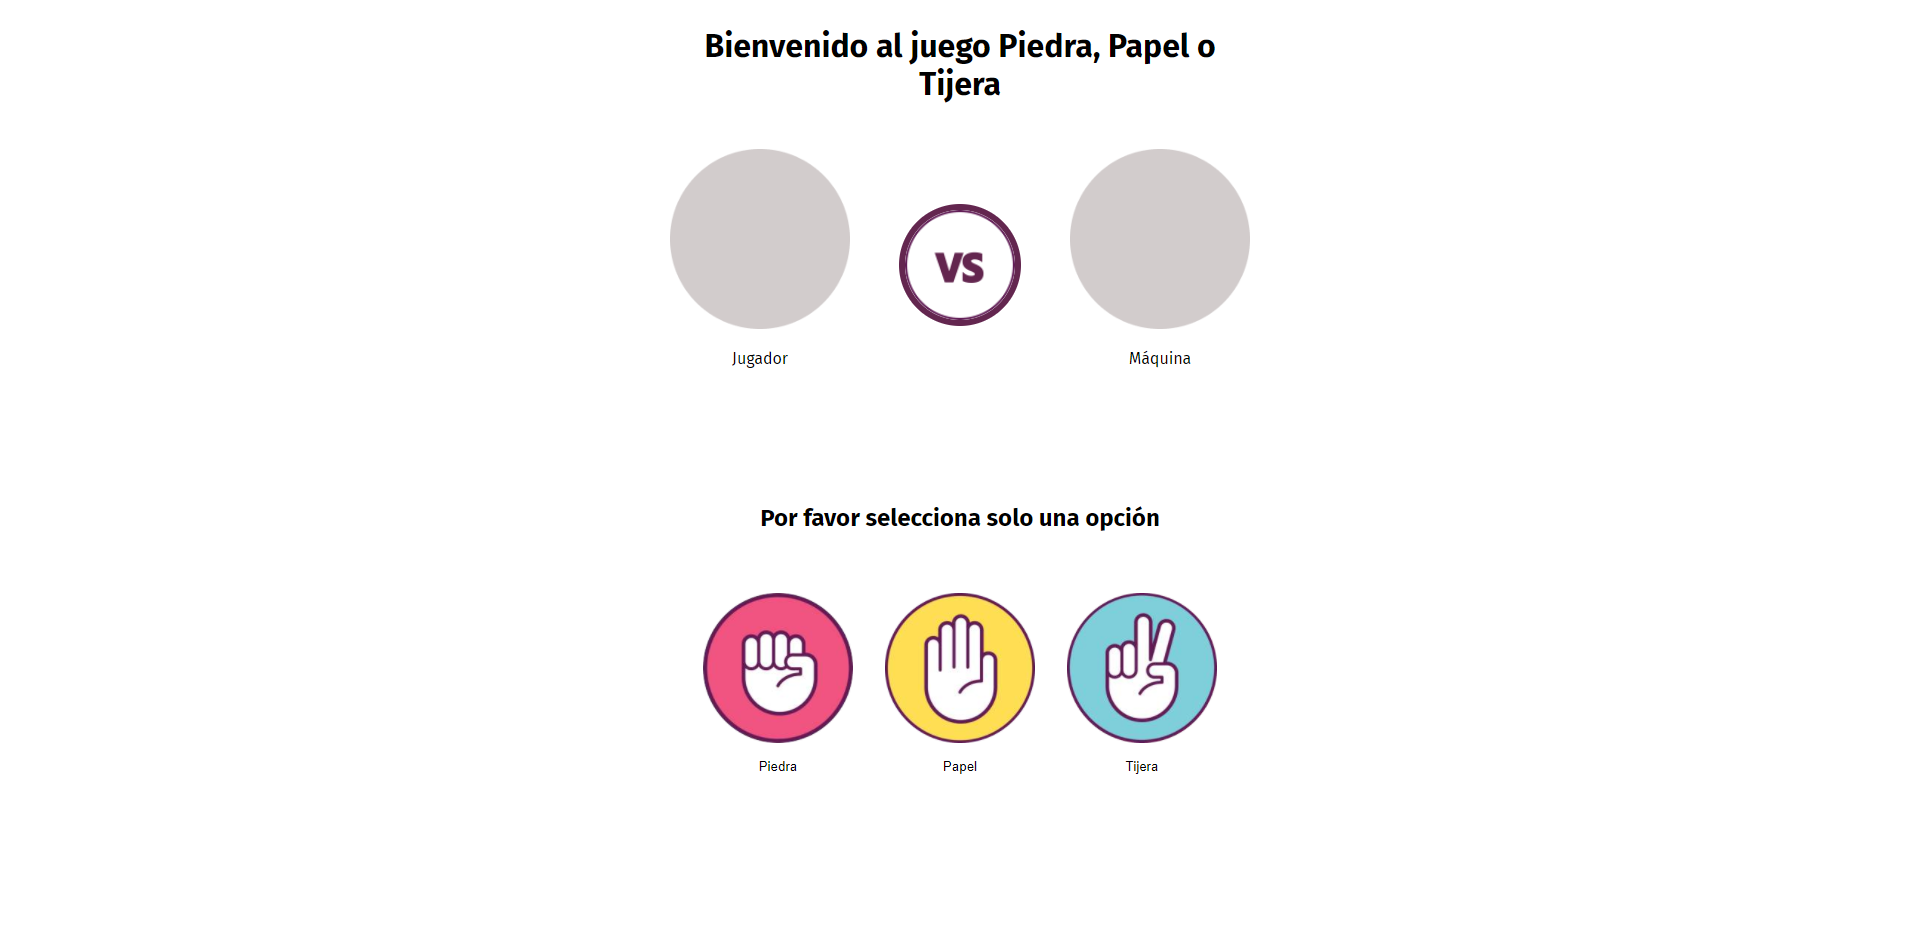
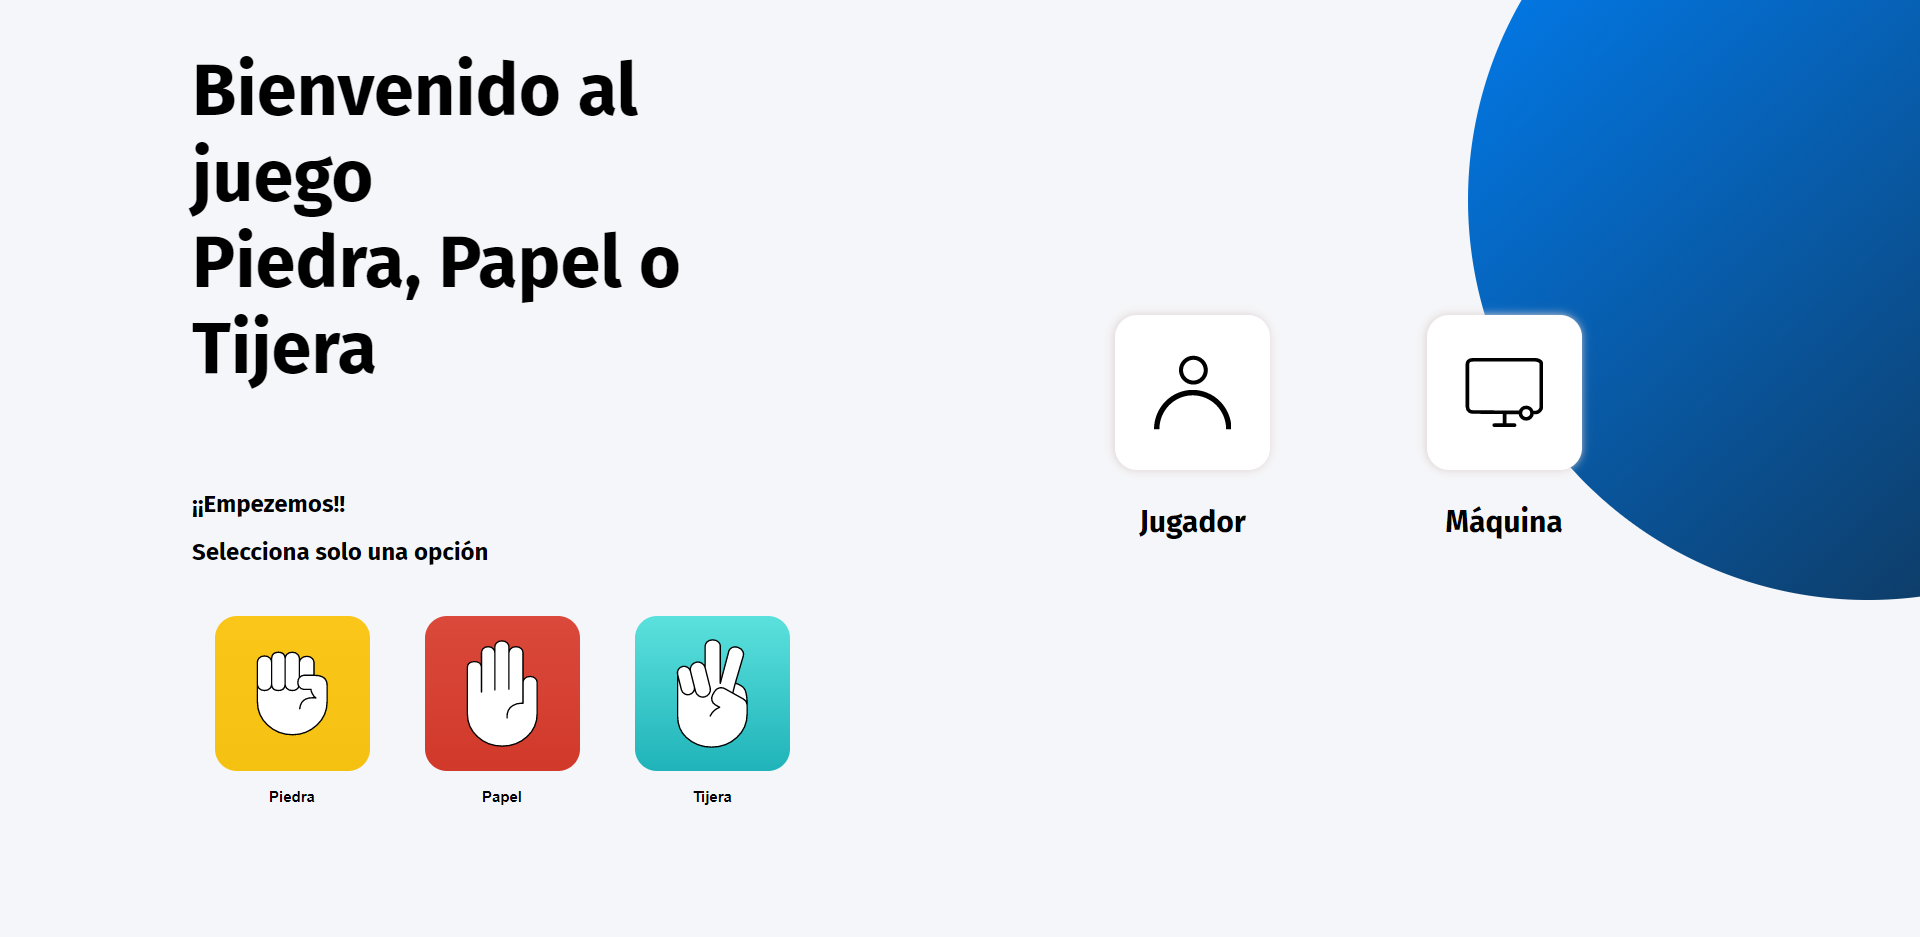
Rediseño de la App,fix html y CSS, fix Readme.md

diff --git a/css/maincss.css b/css/maincss.css
@@ -38,11 +38,18 @@ body {
     font-weight: bold;
 }
 
+.p-text-choose {
+    color: var(--p-text);
+    -webkit-text-fill-color: var(--p-text);
+    font-size: 15px;
+    font-weight: bold;
+}
+
 .display-content {
     display: grid;
-    grid-template-columns: 200px 200px 1fr 1fr 1fr;
+    grid-template-columns: 200px 200px 200px 1fr 1fr;
     grid-template-rows: repeat(4, 1fr);
-    grid-template-areas: "header header header left-box right-box" "text-start text-start . left-box right-box" "content-btn-rock content-btn-paper content-btn-scissors result result" " . . . btn-footer btn-footer";
+    grid-template-areas: "header header header left-box right-box" "text-start text-start . left-box right-box" "content-btn-rock content-btn-paper content-btn-scissors result result" "btn-footer btn-footer btn-footer . .";
     justify-items: center;
     justify-content: center;
     align-items: center;
@@ -68,7 +75,7 @@ body {
 .content-btn-rock,
 .content-btn-paper,
 .content-btn-scissors {
-    justify-self: left;
+    /* justify-self: left; */
     width: 155px;
     height: 155px;
     border: none;
@@ -110,8 +117,12 @@ body {
     background: var(--background-box-start);
     border-radius: 22px;
     text-align: center;
-    margin-top: 65%;
+    margin-top: 40%;
     box-shadow: -1px 0px 9px 0px var(--shadow-box);
+}
+
+.left-box {
+    justify-self: right;
 }
 
 .result {
@@ -123,6 +134,7 @@ body {
 
 .btn-footer {
     text-align: center;
+    justify-content: center;
 }
 
 .button-play-design {
@@ -209,7 +221,7 @@ body {
     }
     .display-content {
         grid-template-columns: repeat(3, 95px);
-        grid-template-rows: 250px 220px 150px 200px 300px 150px;
+        grid-template-rows: 250px 220px 100px 180px 250px 150px;
         grid-template-areas: "header header header" "left-box . right-box" "text-start text-start text-start" "content-btn-rock content-btn-paper content-btn-scissors" "result result result " " btn-footer btn-footer btn-footer";
         /* height: 100%; */
     }

diff --git a/index.html b/index.html
@@ -9,7 +9,7 @@
     <link rel="preconnect" href="https://fonts.gstatic.com">
     <link href="https://fonts.googleapis.com/css2?family=Fira+Sans:wght@400;700&display=swap" rel="stylesheet">
     <link rel="stylesheet" href="css/maincss.css">
-    <link rel="icon" href="img/VS.png">
+    <link rel="icon" href="img/ImageBackground-User.svg">
 </head>
 
 <body>
@@ -32,15 +32,15 @@
         </div>
         <button class="content image-choose content-btn-rock" id="rock-choose">
             <img src="img/Piedra-icon.svg" id="rock-img-choose" class="w-size-minus" alt="Piedra.png">
-            <p class="p-text">Piedra</p>
+            <p class="p-text-choose">Piedra</p>
         </button>
         <button class="content image-choose content-btn-paper" id="paper-choose">
             <img src="img/Papel-icon.svg" id="paper-img-choose" class="w-size-minus" alt="Papel.png">
-            <p class="p-text">Papel</p>
+            <p class="p-text-choose">Papel</p>
         </button>
         <button class="content image-choose content-btn-scissors" id="scissors-choose">
             <img src="img/Tijera-icon.svg" id="scissors-img-choose" class="w-size-minus" alt="Tijera.png">
-            <p class="p-text">Tijera</p>
+            <p class="p-text-choose">Tijera</p>
         </button>
         <div class="content result" id="result"></div>
         <div class="content button-play-again btn-footer">

diff --git a/README.md b/README.md
@@ -16,8 +16,3 @@ Pulsa aqui para ver el **[Demo](https://cesarchoqueskater.github.io/Rock-paper-s
 
 [<img src="screenshots/screen_mobile_play.png" width="45%"/>](screenshots/screen_mobile_play.png)
 
-
-  
-
-**Nota :** 
-La imagen de los iconos son de internet.
